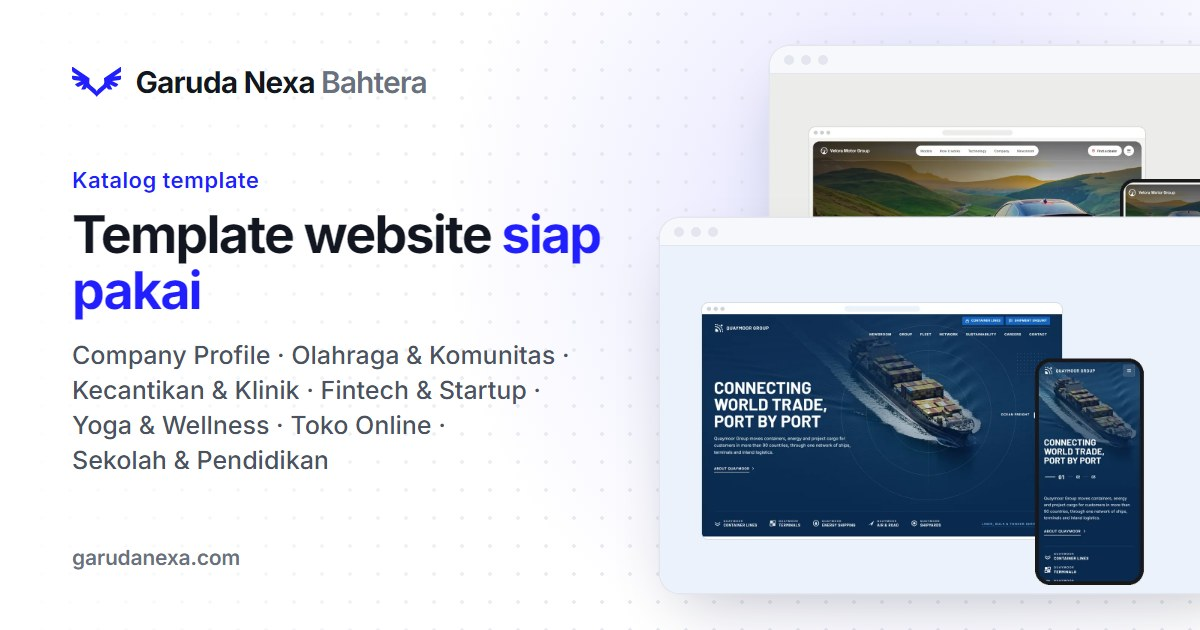
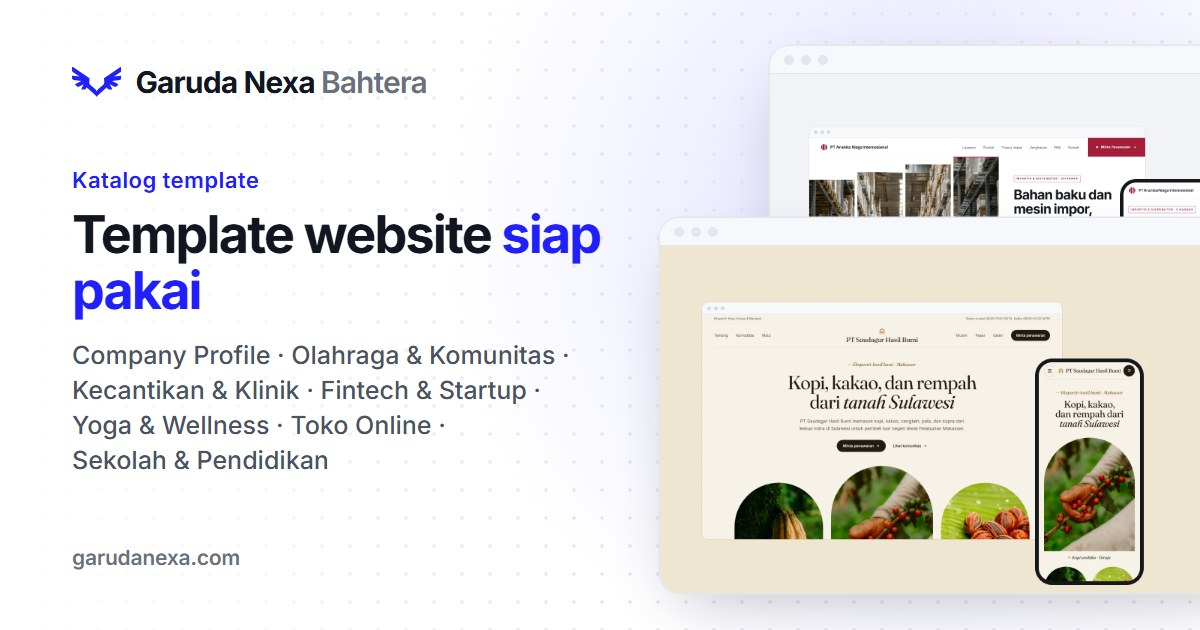
feat(seo): OG cards for Dermaga, Saudagar and NusaNiaga
Rendered with scripts/seo/og-images.mjs --only cards against the local API; the
catalog card picks up the new templates too.

diff --git a/src/seo/ogCards.generated.ts b/src/seo/ogCards.generated.ts
@@ -21,12 +21,15 @@ export const OG_CARDS: readonly string[] = [
   'template-bestari',
   'template-cakrawala',
   'template-corporate-nexa',
+  'template-dermaga',
   'template-finova',
   'template-gadgetku',
   'template-glowstory',
   'template-madani',
+  'template-nusaniaga',
   'template-portline',
   'template-puncakgear',
+  'template-saudagar',
   'template-serenity',
   'template-skynusa',
   'template-startup-clean',
